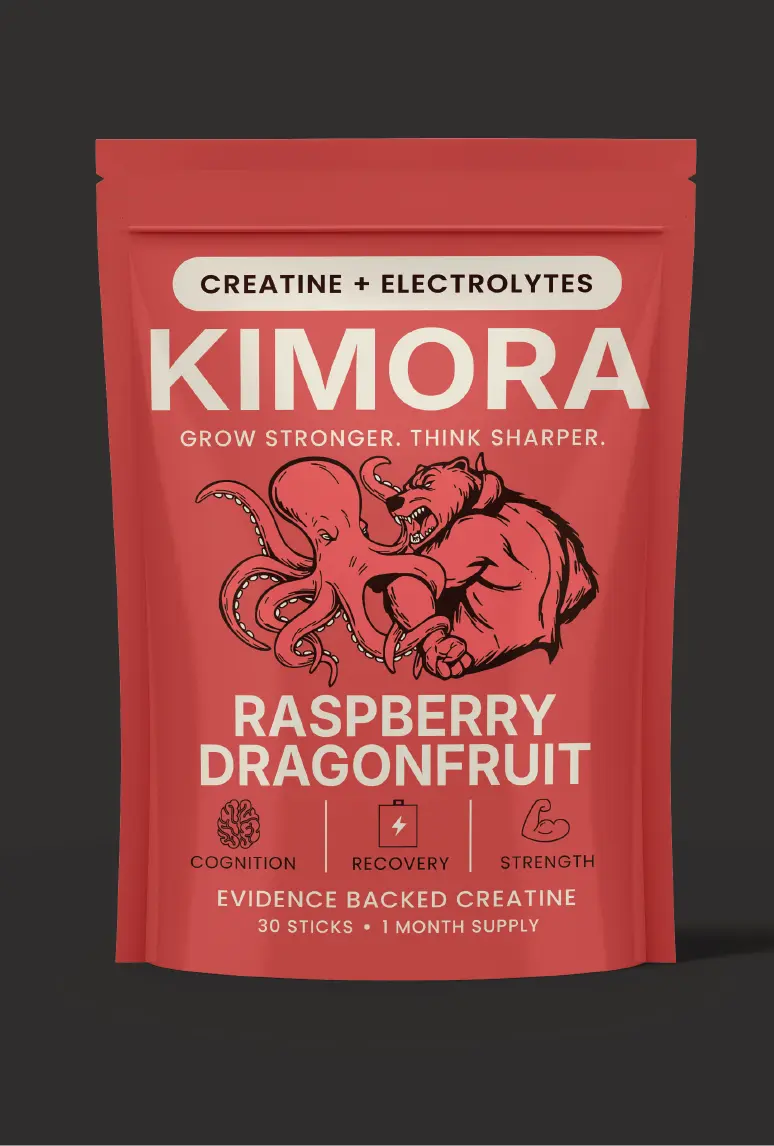
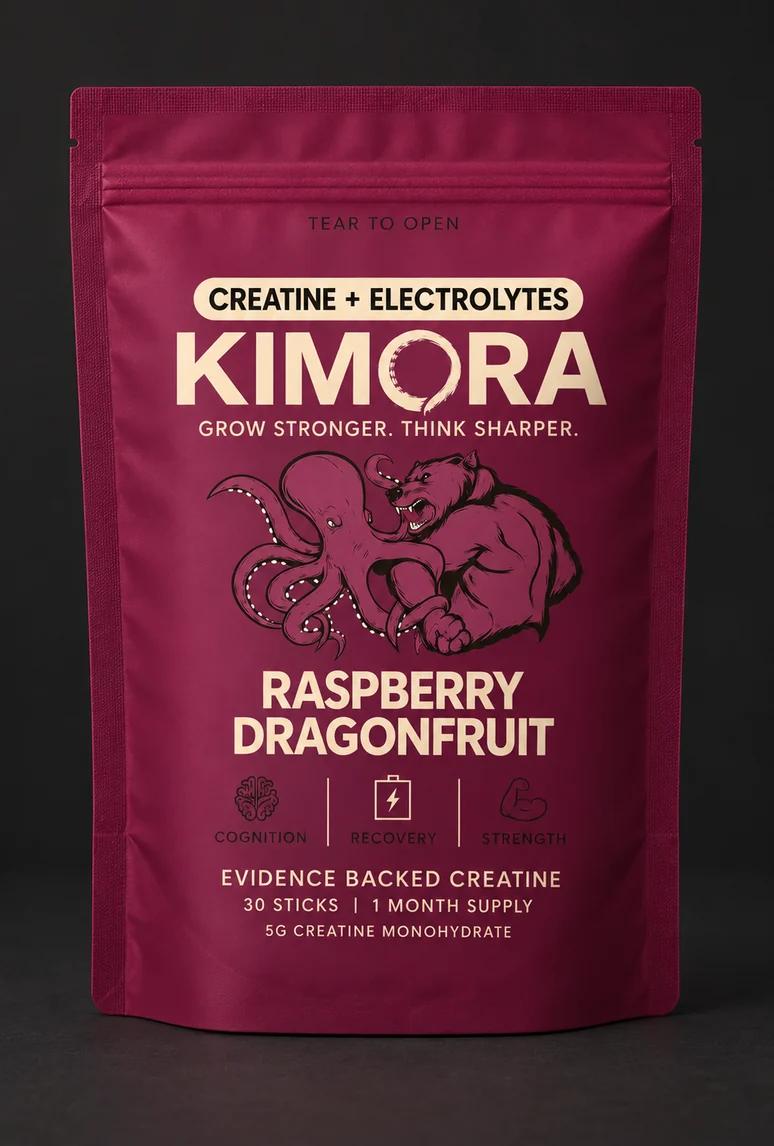
new RD renderings.

diff --git a/client/src/pages/Product.tsx b/client/src/pages/Product.tsx
@@ -44,9 +44,10 @@ const productData: Record<string, any> = {
   "raspberry-dragonfruit": {
     name: "Raspberry Dragonfruit",
     desc: "Bold, juicy, and perfectly balanced. Deep berry notes with a smooth, exotic finish.",
-    // Bright true red — rose-400 read pink on cream (Alex 7/6)
-    color: "text-red-600",
-    gradient: "from-red-500/20",
+    // Wine-berry to match the #7A1E4F colorway (was red-600; moved off red 9/9 so it
+    // stops colliding with SG, which is now red-800)
+    color: "text-pink-900",
+    gradient: "from-pink-900/20",
     pouch: "/assets/products/raspberry-dragonfruit/pouch_sticks_v8.webp",
     stick: "/assets/products/raspberry-dragonfruit/stick_render.png",
   },

diff --git a/client/src/pages/Shop.tsx b/client/src/pages/Shop.tsx
@@ -12,7 +12,7 @@ import { FLAVORS, isFlavorAvailable } from "@/lib/product";
 const ACCENTS: Record<string, { accent: string; bgAccent: string }> = {
   "strawberry-guava": { accent: "from-red-800/25 to-transparent", bgAccent: "from-red-800/20" },
   "lemon-lychee": { accent: "from-yellow-500/20 to-transparent", bgAccent: "from-yellow-500/20" },
-  "raspberry-dragonfruit": { accent: "from-red-600/25 to-transparent", bgAccent: "from-red-500/20" },
+  "raspberry-dragonfruit": { accent: "from-pink-900/25 to-transparent", bgAccent: "from-pink-900/20" },
 };
 
 const products = FLAVORS.map((f) => ({
